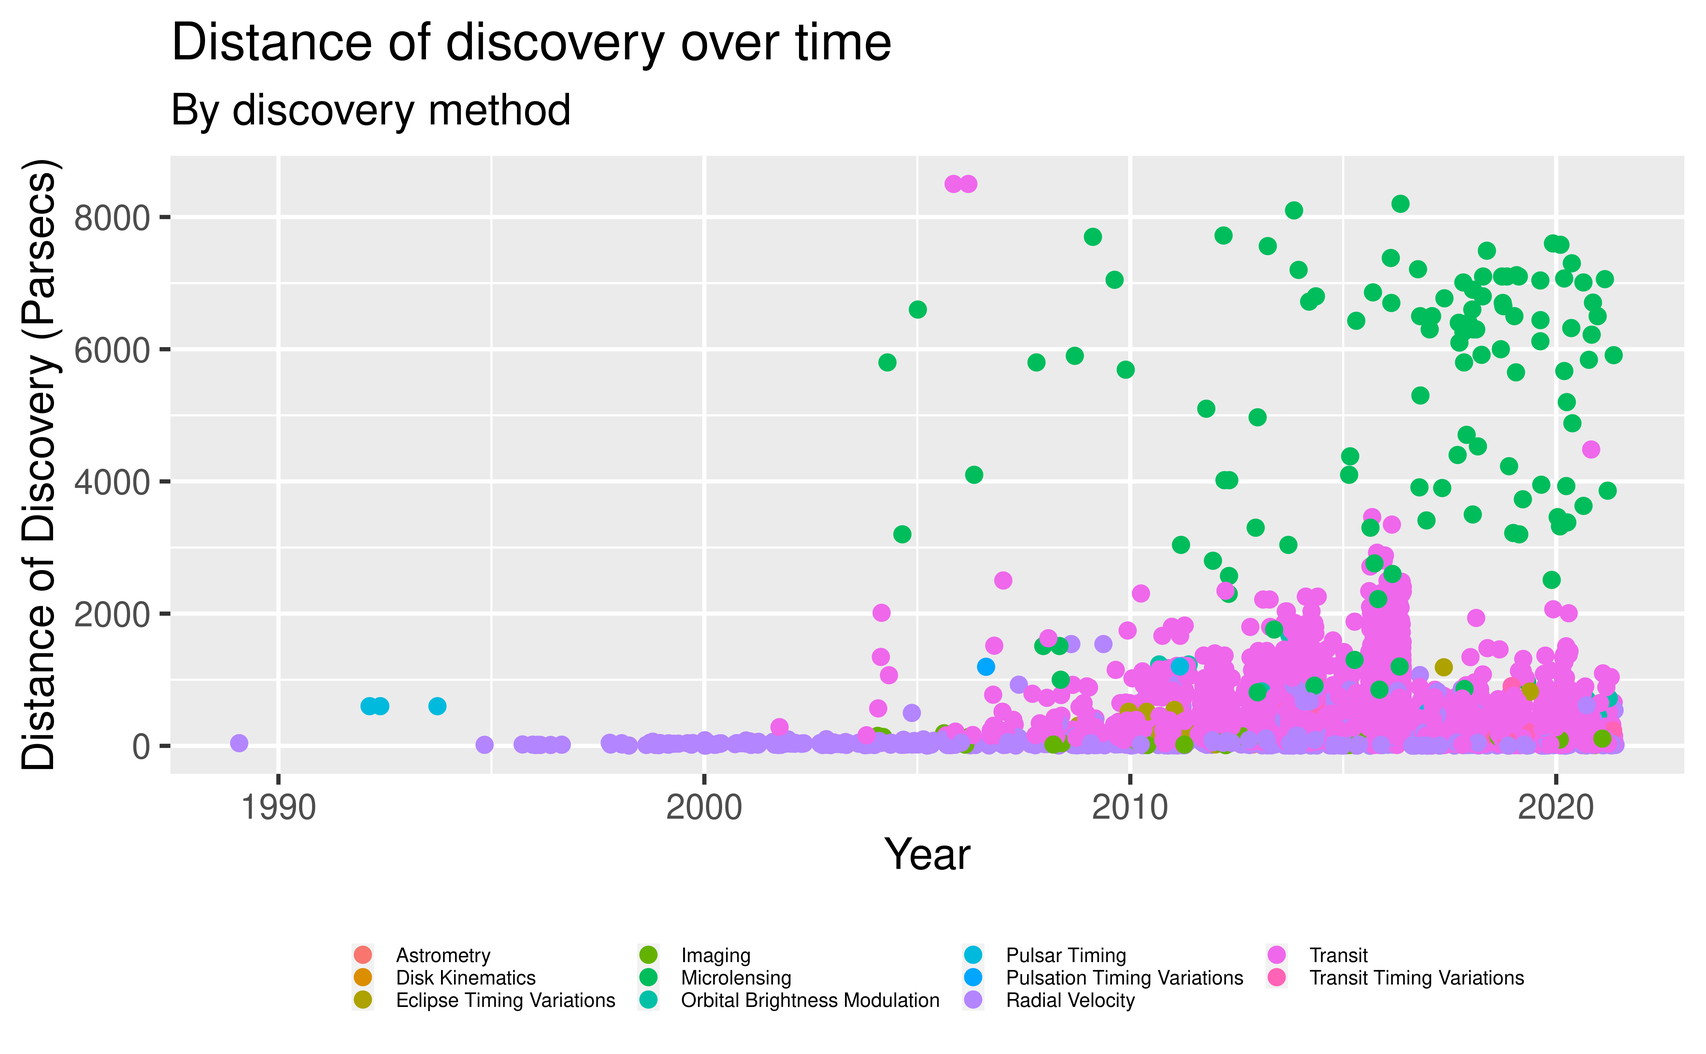
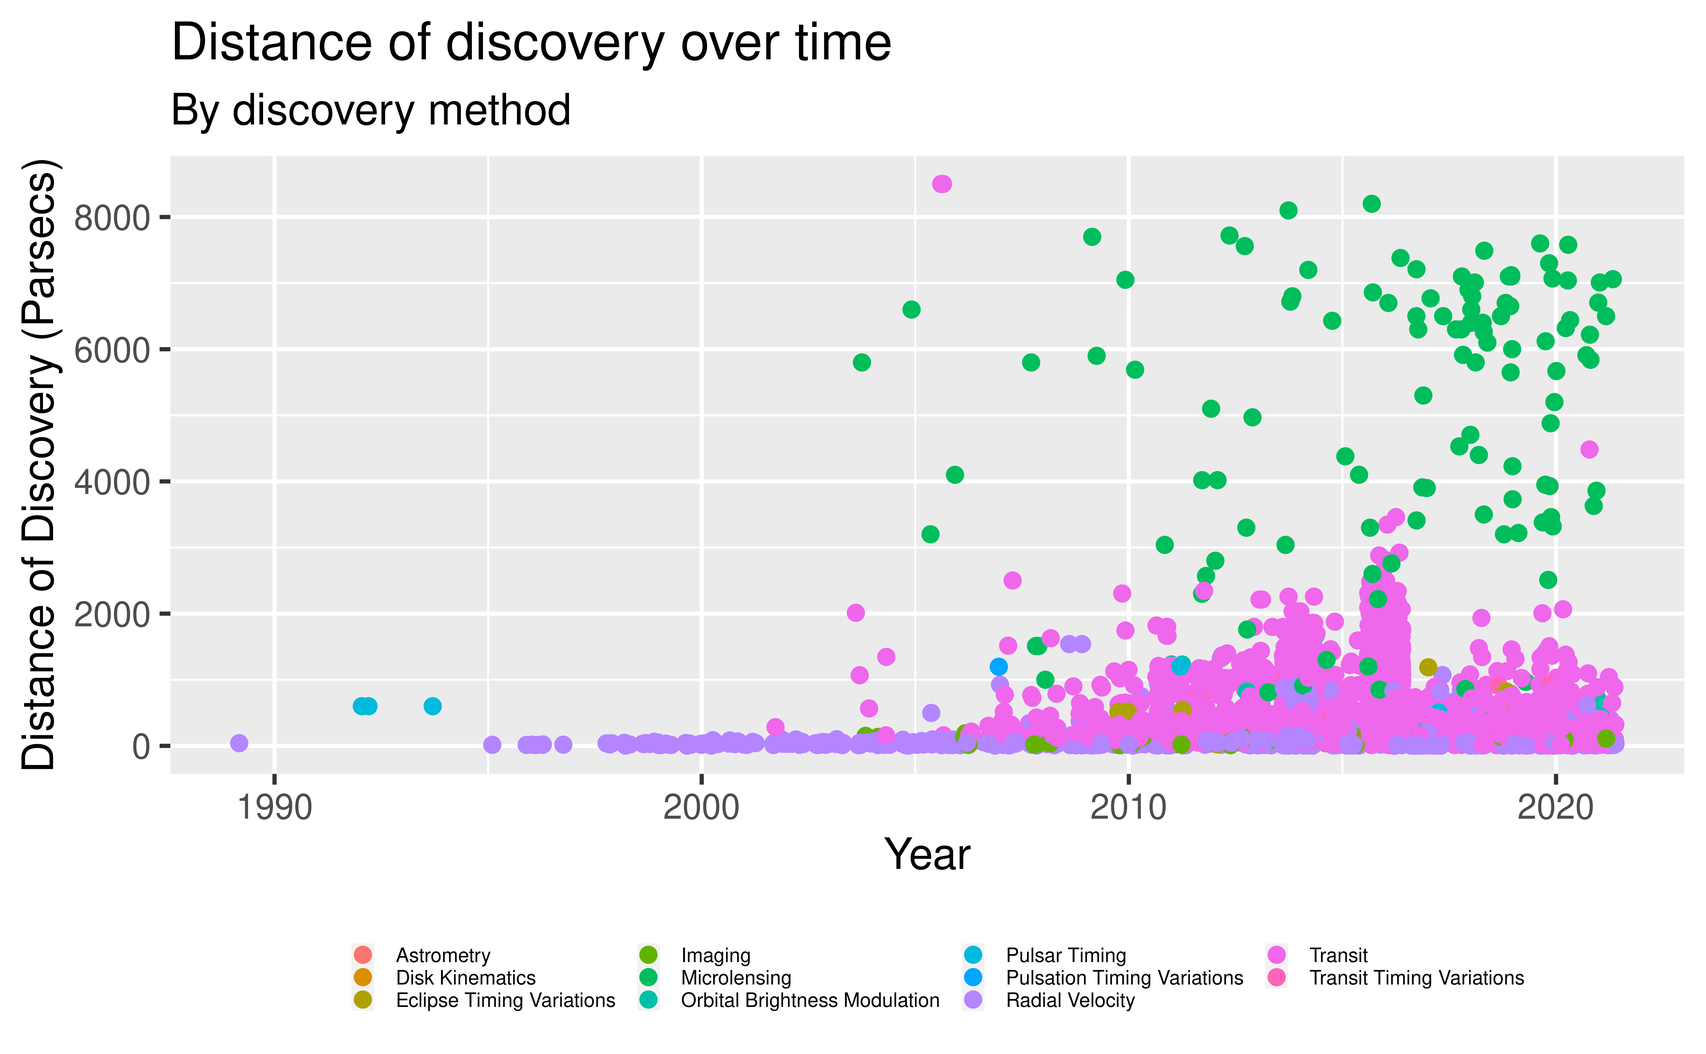
Add linear lines of best fit where applicable and add regression results discussion slide

diff --git a/presentation/presentation.html b/presentation/presentation.html
@@ -4,7 +4,7 @@
     <title>Exoplanet Exploration</title>
     <meta charset="utf-8" />
     <meta name="author" content="Annie Li, Matt Clayton, Ethan Wu" />
-    <meta name="date" content="2021-12-01" />
+    <meta name="date" content="2021-12-02" />
     <script src="libs/header-attrs-2.11/header-attrs.js"></script>
     <script src="libs/htmlwidgets-1.5.4/htmlwidgets.js"></script>
     <script src="libs/jquery-1.12.4/jquery.min.js"></script>
@@ -27,7 +27,7 @@ class: center, middle, inverse, title-slide
 ## Examining Driving Factors in Exoplanet Exploration
 ### Annie Li, Matt Clayton, Ethan Wu
 ### Bates College
-### 2021-12-01
+### 2021-12-02
 
 ---
 
@@ -212,7 +212,11 @@ class: inverse, center, middle
 &lt;img src="presentation_files/figure-html/disc-distance-over-time-plot-1.png" width="80%" style="display: block; margin: auto;" /&gt;
 
 ---
+### Exoplanet Discovery Over Time (Linear Fit)
 
+
+&lt;img src="presentation_files/figure-html/disc-distance-over-time-plot-linear-1.png" width="80%" style="display: block; margin: auto;" /&gt;
+---
 ### Linear Regression of Discovery Year on Mean Distance 
 
 
@@ -346,6 +350,15 @@ glance(distance_time_reg)$r.squared
 
 ---
 
+### Regression Results
+
+- The best model is one that includes both mean distance and discovery year, since a combined model has less omitted variable bias and a higher R-squared value
+
+- The results suggest that as the mean distance in a given year increases by 1 parsec, we can expect an increase in discoveries of approximately 0.452
+
+- The results also suggest that we can expect roughly 12 new discoveries each year on account of time alone (this likely represents technological advancements over time)
+
+---
 ### Observed Future Trends
 - We may discover exoplanets that are further away from us
 
@@ -357,7 +370,13 @@ glance(distance_time_reg)$r.squared
 
 &lt;img src="presentation_files/figure-html/gdp-vs-count-1.png" width="80%" style="display: block; margin: auto;" /&gt;
 ---
-### Linear regression on the relationship between GDP and number of discoveres exoplanets 
+
+### GDP and the Number of Exoplanets Discovered (Linear Fit)
+
+&lt;img src="presentation_files/figure-html/gdp-vs-count-linear-1.png" width="80%" style="display: block; margin: auto;" /&gt;
+
+---
+### Linear Regression on the Relationship Between GDP and Number of Discoveres Exoplanets 
 
 
 ```r
@@ -375,12 +394,17 @@ glance(gdp_disc)$r.squared
 
 ---
 
-### GDP and the number of exoplanets discovered (exluding USA)
+### GDP &amp; the Number of Exoplanets Discovered (Exluding USA)
 &lt;img src="presentation_files/figure-html/gdp-vs-count-without-USA-1.png" width="80%" style="display: block; margin: auto;" /&gt;
 
 ---
 
-### Linear regression on the relationship between GDP and number of discoveres exoplanets (excluding USA)
+### GDP &amp; the Number of Exoplanets Discovered (Exluding USA) (Linear Fit)
+&lt;img src="presentation_files/figure-html/gdp-vs-count-without-USA-linear-1.png" width="80%" style="display: block; margin: auto;" /&gt;
+
+---
+
+### Linear Regression on the Relationship Between GDP and Number of Discoveres (excluding USA)
 
 
 ```r
@@ -525,8 +549,8 @@ class: inverse, center, middle
 ### Exploring the Data: Interactive Leaflet Map (Discovery Locations)
 
 
-<div id="htmlwidget-c6bff6d8399f7a5870c2" style="width:80%;height:1112.4px;" class="leaflet html-widget"></div>
-<script type="application/json" data-for="htmlwidget-c6bff6d8399f7a5870c2">{"x":{"options":{"crs":{"crsClass":"L.CRS.EPSG3857","code":null,"proj4def":null,"projectedBounds":null,"options":{}}},"setView":[[-13.7,13.3],2,[]],"calls":[{"method":"addProviderTiles","args":["Stamen.Terrain",null,null,{"errorTileUrl":"","noWrap":false,"detectRetina":false}]},{"method":"addProviderTiles","args":["Stamen.TerrainLabels",null,null,{"errorTileUrl":"","noWrap":false,"detectRetina":false}]},{"method":"addMarkers","args":[[40.3945875544078,50.9820959522059,34.5765044619692,19.8271439533533,19.8229882424772,37.3416306323217,-24.6281129813625,-30.1686650740484,28.6082898086413,28.4461262820344,43.9302235794886,30.6794411910181,-31.2752242445919,36.1606806341249,28.5625667976929,28.4531500099104,28.4465003275046,-29.2601721254066,19.8259321343201,45.5929786183726,19.7021225407977,25.0338357741338,28.4472539108879,37.2205199024817,31.6745674152515,32.9015298111837,42.4773811497737,33.3574080927318,31.6751885667626,-29.0149270845236,31.9594838175142,-29.0143832437707,5.30236933538361,42.5049631873197,31.6757976446097,32.7805088421853,-23.0272157380583,31.7135851408837,31.7121801049321,31.7131520422979,-31.1624956530674,32.700964410149,-43.9696463271523,31.6652191982915,-29.0039337575817,48.2597768438794,18.3437570965364,-33.0123782971891,-31.7994026834335,19.8219021749655,35.1203687919416,19.4923202272193,28.180944937537,28.4541267085972,-26.0295477864595,28.7574864747294,-26.0293577013572,19.8223821182326,20.4228440294936,20.7089359999506],[117.574601300186,11.7150876824293,133.591189753093,-155.483608206823,-155.477957839542,-121.635120706512,-70.3962415152146,-70.7982780788706,-80.601545518869,-80.5616736491144,5.70370492723248,-104.031715237028,149.068329928664,128.979086913133,-80.582004014944,-17.5328711789958,-80.5575596426314,-70.7249209465933,-155.469040930199,63.3310988543086,-155.085217957287,102.785203078696,-80.5662223678574,-2.5519299148608,-110.952047905568,-105.525463887648,-71.463254293294,-116.864344699054,-110.958926892132,-70.6828575664828,-111.602183909274,-70.6933903947076,-52.834987656278,-71.5677184227593,-110.957560837525,-105.819283148153,-67.7523286803285,-110.605871238107,-110.606241235956,-110.601921483213,149.030366049292,-109.890890508875,170.472626692411,-110.59887705088,-70.4206523761753,11.6754364748435,-66.7549391424658,148.265280474268,-69.288309075259,-155.475960837721,-111.389586714068,-155.283211403095,-16.3024831458638,-17.5334020382846,27.9236072704919,-17.8950194263394,27.9240756403865,-155.470791316318,-156.157167210837,-156.24760903114],null,null,null,{"interactive":true,"draggable":false,"keyboard":true,"title":"","alt":"","zIndexOffset":0,"opacity":1,"riseOnHover":false,"riseOffset":250},["<strong>Xinglong Station<\/strong><br/>2 Discoveries<br/>Ownership: China<br/>Ownership Type: Public","<strong>Thueringer Landessternwarte Tautenburg<\/strong><br/>8 Discoveries<br/>Ownership: Germany<br/>Ownership Type: Public","<strong>Okayama Astrophysical Observatory<\/strong><br/>23 Discoveries<br/>Ownership: Japan<br/>Ownership Type: Public","<strong>W. M. Keck Observatory<\/strong><br/>180 Discoveries<br/>Ownership: United States<br/>Ownership Type: Public","<strong>Gemini Observatory<\/strong><br/>9 Discoveries<br/>Ownership: United States<br/>Ownership Type: Public","<strong>Lick Observatory<\/strong><br/>33 Discoveries<br/>Ownership: United States<br/>Ownership Type: Public","<strong>Paranal Observatory<\/strong><br/>36 Discoveries<br/>Ownership: Europe<br/>Ownership Type: Public","<strong>Cerro Tololo Inter-American Observatory<\/strong><br/>2 Discoveries<br/>Ownership: United States<br/>Ownership Type: Public","<strong>Hubble Space Telescope<\/strong><br/>6 Discoveries<br/>Ownership: United States<br/>Ownership Type: Public","<strong>Kepler<\/strong><br/>2402 Discoveries<br/>Ownership: United States<br/>Ownership Type: Public","<strong>Haute-Provence Observatory<\/strong><br/>64 Discoveries<br/>Ownership: France<br/>Ownership Type: Public","<strong>McDonald Observatory<\/strong><br/>29 Discoveries<br/>Ownership: United States<br/>Ownership Type: Private","<strong>Anglo-Australian Telescope<\/strong><br/>37 Discoveries<br/>Ownership: Australia<br/>Ownership Type: Public","<strong>Bohyunsan Optical Astronomical Observatory<\/strong><br/>19 Discoveries<br/>Ownership: South Korea<br/>Ownership Type: Public","<strong>Transiting Exoplanet Survey Satellite (TESS)<\/strong><br/>159 Discoveries<br/>Ownership: United States<br/>Ownership Type: Public","<strong>Roque de los Muchachos Observatory<\/strong><br/>22 Discoveries<br/>Ownership: Spain<br/>Ownership Type: Public","<strong>K2<\/strong><br/>467 Discoveries<br/>Ownership: United States<br/>Ownership Type: Public","<strong>La Silla Observatory<\/strong><br/>247 Discoveries<br/>Ownership: Europe<br/>Ownership Type: Public","<strong>NASA Infrared Telescope Facility (IRTF)<\/strong><br/>1 Discoveries<br/>Ownership: United States<br/>Ownership Type: Public","<strong>CoRoT<\/strong><br/>33 Discoveries<br/>Ownership: Europe<br/>Ownership Type: Public","<strong>Subaru Telescope<\/strong><br/>8 Discoveries<br/>Ownership: Japan<br/>Ownership Type: Public","<strong>Yunnan Astronomical Observatory<\/strong><br/>3 Discoveries<br/>Ownership: China<br/>Ownership Type: Public","<strong>Spitzer Space Telescope<\/strong><br/>3 Discoveries<br/>Ownership: United States<br/>Ownership Type: Public","<strong>Calar Alto Observatory<\/strong><br/>14 Discoveries<br/>Ownership: Spain<br/>Ownership Type: Public","<strong>MEarth Project<\/strong><br/>2 Discoveries<br/>Ownership: United States<br/>Ownership Type: Public","<strong>Qatar<\/strong><br/>11 Discoveries<br/>Ownership: Qatar<br/>Ownership Type: Public","<strong>Acton Sky Portal Observatory<\/strong><br/>2 Discoveries<br/>Ownership: United States<br/>Ownership Type: Private","<strong>Palomar Observatory<\/strong><br/>2 Discoveries<br/>Ownership: United States<br/>Ownership Type: Private","<strong>HATNet<\/strong><br/>67 Discoveries<br/>Ownership: United States<br/>Ownership Type: Public","<strong>HATSouth<\/strong><br/>69 Discoveries<br/>Ownership: United States<br/>Ownership Type: Public","<strong>Kitt Peak National Observatory<\/strong><br/>1 Discoveries<br/>Ownership: United States<br/>Ownership Type: Public","<strong>Las Campanas Observatory<\/strong><br/>29 Discoveries<br/>Ownership: United States<br/>Ownership Type: Public","<strong>CHaracterising ExOPlanets Satellite (CHEOPS)<\/strong><br/>1 Discoveries<br/>Ownership: Europe<br/>Ownership Type: Public","<strong>Oak Ridge Observatory<\/strong><br/>1 Discoveries<br/>Ownership: United States<br/>Ownership Type: Private","<strong>Fred Lawrence Whipple Observatory<\/strong><br/>6 Discoveries<br/>Ownership: United States<br/>Ownership Type: Private","<strong>Apache Point Observatory<\/strong><br/>1 Discoveries<br/>Ownership: United States<br/>Ownership Type: Public","<strong>Atacama Large Millimeter Array (ALMA)<\/strong><br/>1 Discoveries<br/>Ownership: Europe<br/>Ownership Type: Public","<strong>KELT<\/strong><br/>10 Discoveries<br/>Ownership: United States<br/>Ownership Type: Private","<strong>KELT-South<\/strong><br/>4 Discoveries<br/>Ownership: United States<br/>Ownership Type: Private","<strong>KELT-North<\/strong><br/>7 Discoveries<br/>Ownership: United States<br/>Ownership Type: Private","<strong>KMTNet<\/strong><br/>24 Discoveries<br/>Ownership: South Korea<br/>Ownership Type: Private","<strong>Large Binocular Telescope Observatory<\/strong><br/>2 Discoveries<br/>Ownership: United States<br/>Ownership Type: Private","<strong>MOA<\/strong><br/>25 Discoveries<br/>Ownership: New Zealand<br/>Ownership Type: Public","<strong>Winer Observatory<\/strong><br/>1 Discoveries<br/>Ownership: United States<br/>Ownership Type: Private","<strong>OGLE<\/strong><br/>72 Discoveries<br/>Ownership: Poland<br/>Ownership Type: Public","<strong>European Southern Observatory<\/strong><br/>2 Discoveries<br/>Ownership: Europe<br/>Ownership Type: Public","<strong>Arecibo Observatory<\/strong><br/>3 Discoveries<br/>Ownership: United States<br/>Ownership Type: Public","<strong>Parkes Observatory<\/strong><br/>2 Discoveries<br/>Ownership: Australia<br/>Ownership Type: Public","<strong>Leoncito Astronomical Complex<\/strong><br/>1 Discoveries<br/>Ownership: United States<br/>Ownership Type: Public","<strong>Infrared Survey Facility<\/strong><br/>1 Discoveries<br/>Ownership: United Kingdom<br/>Ownership Type: Public","<strong>TrES<\/strong><br/>5 Discoveries<br/>Ownership: United States<br/>Ownership Type: Public","<strong>Mauna Kea Observatory<\/strong><br/>1 Discoveries<br/>Ownership: United States<br/>Ownership Type: Public","<strong>Teide Observatory<\/strong><br/>1 Discoveries<br/>Ownership: Spain<br/>Ownership Type: Public","<strong>SuperWASP<\/strong><br/>113 Discoveries<br/>Ownership: United Kingdom<br/>Ownership Type: Public","<strong>SuperWASP-South<\/strong><br/>32 Discoveries<br/>Ownership: United Kingdom<br/>Ownership Type: Public","<strong>SuperWASP-North<\/strong><br/>5 Discoveries<br/>Ownership: United Kingdom<br/>Ownership Type: Public","<strong>WASP-South<\/strong><br/>10 Discoveries<br/>Ownership: United Kingdom<br/>Ownership Type: Public","<strong>United Kingdom Infrared Telescope<\/strong><br/>2 Discoveries<br/>Ownership: United Kingdom<br/>Ownership Type: Public","<strong>Haleakala Observatory<\/strong><br/>2 Discoveries<br/>Ownership: United States<br/>Ownership Type: Public","<strong>XO<\/strong><br/>7 Discoveries<br/>Ownership: United States<br/>Ownership Type: Public"],null,null,null,null,{"interactive":false,"permanent":false,"direction":"auto","opacity":1,"offset":[0,0],"textsize":"10px","textOnly":false,"className":"","sticky":true},null]}],"limits":{"lat":[-43.9696463271523,50.9820959522059],"lng":[-156.24760903114,170.472626692411]}},"evals":[],"jsHooks":[]}</script>
+<div id="htmlwidget-eb93491a09d635e2c712" style="width:80%;height:1112.4px;" class="leaflet html-widget"></div>
+<script type="application/json" data-for="htmlwidget-eb93491a09d635e2c712">{"x":{"options":{"crs":{"crsClass":"L.CRS.EPSG3857","code":null,"proj4def":null,"projectedBounds":null,"options":{}}},"setView":[[-13.7,13.3],2,[]],"calls":[{"method":"addProviderTiles","args":["Stamen.Terrain",null,null,{"errorTileUrl":"","noWrap":false,"detectRetina":false}]},{"method":"addProviderTiles","args":["Stamen.TerrainLabels",null,null,{"errorTileUrl":"","noWrap":false,"detectRetina":false}]},{"method":"addMarkers","args":[[40.3950115482766,50.981839656157,34.576538843925,19.8261012301116,19.8238960706354,37.3413223105318,-24.6266131055279,-30.1700199015954,28.6091348138103,28.4468431274378,43.9305663166129,30.6791249676961,-31.2753702518685,36.161397115574,28.5626740314948,28.4518072919592,28.4468025347366,-29.2620878113127,19.8265953416475,45.5930689172283,19.7006489989684,25.0332789593585,28.4467796175926,37.2202287413198,31.6741882568259,32.9017997420638,42.4766645388684,33.3570251530765,31.6752314418848,-29.0145565387843,31.9595355062189,-29.013870608136,5.30215749193166,42.50566269327,31.6750786079001,32.7800404325455,-23.027764048496,31.7133030671648,31.7122735945022,31.7136583762814,-31.1611426887597,32.7008052618806,-43.9707663890551,31.6668887658485,-29.0039360327072,48.2593526396169,18.3450166124626,-33.0109848801311,-31.7979168928041,19.8230335805756,35.1210022287001,19.4917199058449,28.1799954336928,28.4527102975909,-26.0309074900576,28.7555671899912,-26.0293431845147,19.8233696386768,20.4224754355052,20.7080632714282],[117.569111407273,11.7110522860397,133.588995385678,-155.469194509322,-155.472276008907,-121.636965568713,-70.3964438284245,-70.7986056851043,-80.613389298268,-80.5662220111981,5.7034836323088,-104.022336972906,149.070027420887,128.97250211497,-80.5693519327429,-17.5357562555484,-80.5617124863135,-70.737548751939,-155.465933579469,63.3237867639303,-155.082733666571,102.778941290816,-80.5649288112277,-2.55408377047889,-110.957297203867,-105.537898701247,-71.4499119984799,-116.875290705866,-110.951183570102,-70.6986551257804,-111.593727924593,-70.6892576156579,-52.8369070167368,-71.5659828803428,-110.954947906942,-105.821658497835,-67.757514853355,-110.599565187418,-110.610089880726,-110.605528400284,149.034259183327,-109.888068195855,170.475993026277,-110.59576567199,-70.4163542323321,11.6764335106589,-66.7489154549504,148.26711669807,-69.2903378559178,-155.47340493675,-111.390355637525,-155.280355137784,-16.3014104593256,-17.531980394179,27.9256900081482,-17.8909900254133,27.9334273039807,-155.469939197276,-156.159666706065,-156.250218165722],null,null,null,{"interactive":true,"draggable":false,"keyboard":true,"title":"","alt":"","zIndexOffset":0,"opacity":1,"riseOnHover":false,"riseOffset":250},["<strong>Xinglong Station<\/strong><br/>2 Discoveries<br/>Ownership: China<br/>Ownership Type: Public","<strong>Thueringer Landessternwarte Tautenburg<\/strong><br/>8 Discoveries<br/>Ownership: Germany<br/>Ownership Type: Public","<strong>Okayama Astrophysical Observatory<\/strong><br/>23 Discoveries<br/>Ownership: Japan<br/>Ownership Type: Public","<strong>W. M. Keck Observatory<\/strong><br/>180 Discoveries<br/>Ownership: United States<br/>Ownership Type: Public","<strong>Gemini Observatory<\/strong><br/>9 Discoveries<br/>Ownership: United States<br/>Ownership Type: Public","<strong>Lick Observatory<\/strong><br/>33 Discoveries<br/>Ownership: United States<br/>Ownership Type: Public","<strong>Paranal Observatory<\/strong><br/>36 Discoveries<br/>Ownership: Europe<br/>Ownership Type: Public","<strong>Cerro Tololo Inter-American Observatory<\/strong><br/>2 Discoveries<br/>Ownership: United States<br/>Ownership Type: Public","<strong>Hubble Space Telescope<\/strong><br/>6 Discoveries<br/>Ownership: United States<br/>Ownership Type: Public","<strong>Kepler<\/strong><br/>2402 Discoveries<br/>Ownership: United States<br/>Ownership Type: Public","<strong>Haute-Provence Observatory<\/strong><br/>64 Discoveries<br/>Ownership: France<br/>Ownership Type: Public","<strong>McDonald Observatory<\/strong><br/>29 Discoveries<br/>Ownership: United States<br/>Ownership Type: Private","<strong>Anglo-Australian Telescope<\/strong><br/>37 Discoveries<br/>Ownership: Australia<br/>Ownership Type: Public","<strong>Bohyunsan Optical Astronomical Observatory<\/strong><br/>19 Discoveries<br/>Ownership: South Korea<br/>Ownership Type: Public","<strong>Transiting Exoplanet Survey Satellite (TESS)<\/strong><br/>159 Discoveries<br/>Ownership: United States<br/>Ownership Type: Public","<strong>Roque de los Muchachos Observatory<\/strong><br/>22 Discoveries<br/>Ownership: Spain<br/>Ownership Type: Public","<strong>K2<\/strong><br/>467 Discoveries<br/>Ownership: United States<br/>Ownership Type: Public","<strong>La Silla Observatory<\/strong><br/>247 Discoveries<br/>Ownership: Europe<br/>Ownership Type: Public","<strong>NASA Infrared Telescope Facility (IRTF)<\/strong><br/>1 Discoveries<br/>Ownership: United States<br/>Ownership Type: Public","<strong>CoRoT<\/strong><br/>33 Discoveries<br/>Ownership: Europe<br/>Ownership Type: Public","<strong>Subaru Telescope<\/strong><br/>8 Discoveries<br/>Ownership: Japan<br/>Ownership Type: Public","<strong>Yunnan Astronomical Observatory<\/strong><br/>3 Discoveries<br/>Ownership: China<br/>Ownership Type: Public","<strong>Spitzer Space Telescope<\/strong><br/>3 Discoveries<br/>Ownership: United States<br/>Ownership Type: Public","<strong>Calar Alto Observatory<\/strong><br/>14 Discoveries<br/>Ownership: Spain<br/>Ownership Type: Public","<strong>MEarth Project<\/strong><br/>2 Discoveries<br/>Ownership: United States<br/>Ownership Type: Public","<strong>Qatar<\/strong><br/>11 Discoveries<br/>Ownership: Qatar<br/>Ownership Type: Public","<strong>Acton Sky Portal Observatory<\/strong><br/>2 Discoveries<br/>Ownership: United States<br/>Ownership Type: Private","<strong>Palomar Observatory<\/strong><br/>2 Discoveries<br/>Ownership: United States<br/>Ownership Type: Private","<strong>HATNet<\/strong><br/>67 Discoveries<br/>Ownership: United States<br/>Ownership Type: Public","<strong>HATSouth<\/strong><br/>69 Discoveries<br/>Ownership: United States<br/>Ownership Type: Public","<strong>Kitt Peak National Observatory<\/strong><br/>1 Discoveries<br/>Ownership: United States<br/>Ownership Type: Public","<strong>Las Campanas Observatory<\/strong><br/>29 Discoveries<br/>Ownership: United States<br/>Ownership Type: Public","<strong>CHaracterising ExOPlanets Satellite (CHEOPS)<\/strong><br/>1 Discoveries<br/>Ownership: Europe<br/>Ownership Type: Public","<strong>Oak Ridge Observatory<\/strong><br/>1 Discoveries<br/>Ownership: United States<br/>Ownership Type: Private","<strong>Fred Lawrence Whipple Observatory<\/strong><br/>6 Discoveries<br/>Ownership: United States<br/>Ownership Type: Private","<strong>Apache Point Observatory<\/strong><br/>1 Discoveries<br/>Ownership: United States<br/>Ownership Type: Public","<strong>Atacama Large Millimeter Array (ALMA)<\/strong><br/>1 Discoveries<br/>Ownership: Europe<br/>Ownership Type: Public","<strong>KELT<\/strong><br/>10 Discoveries<br/>Ownership: United States<br/>Ownership Type: Private","<strong>KELT-South<\/strong><br/>4 Discoveries<br/>Ownership: United States<br/>Ownership Type: Private","<strong>KELT-North<\/strong><br/>7 Discoveries<br/>Ownership: United States<br/>Ownership Type: Private","<strong>KMTNet<\/strong><br/>24 Discoveries<br/>Ownership: South Korea<br/>Ownership Type: Private","<strong>Large Binocular Telescope Observatory<\/strong><br/>2 Discoveries<br/>Ownership: United States<br/>Ownership Type: Private","<strong>MOA<\/strong><br/>25 Discoveries<br/>Ownership: New Zealand<br/>Ownership Type: Public","<strong>Winer Observatory<\/strong><br/>1 Discoveries<br/>Ownership: United States<br/>Ownership Type: Private","<strong>OGLE<\/strong><br/>72 Discoveries<br/>Ownership: Poland<br/>Ownership Type: Public","<strong>European Southern Observatory<\/strong><br/>2 Discoveries<br/>Ownership: Europe<br/>Ownership Type: Public","<strong>Arecibo Observatory<\/strong><br/>3 Discoveries<br/>Ownership: United States<br/>Ownership Type: Public","<strong>Parkes Observatory<\/strong><br/>2 Discoveries<br/>Ownership: Australia<br/>Ownership Type: Public","<strong>Leoncito Astronomical Complex<\/strong><br/>1 Discoveries<br/>Ownership: United States<br/>Ownership Type: Public","<strong>Infrared Survey Facility<\/strong><br/>1 Discoveries<br/>Ownership: United Kingdom<br/>Ownership Type: Public","<strong>TrES<\/strong><br/>5 Discoveries<br/>Ownership: United States<br/>Ownership Type: Public","<strong>Mauna Kea Observatory<\/strong><br/>1 Discoveries<br/>Ownership: United States<br/>Ownership Type: Public","<strong>Teide Observatory<\/strong><br/>1 Discoveries<br/>Ownership: Spain<br/>Ownership Type: Public","<strong>SuperWASP<\/strong><br/>113 Discoveries<br/>Ownership: United Kingdom<br/>Ownership Type: Public","<strong>SuperWASP-South<\/strong><br/>32 Discoveries<br/>Ownership: United Kingdom<br/>Ownership Type: Public","<strong>SuperWASP-North<\/strong><br/>5 Discoveries<br/>Ownership: United Kingdom<br/>Ownership Type: Public","<strong>WASP-South<\/strong><br/>10 Discoveries<br/>Ownership: United Kingdom<br/>Ownership Type: Public","<strong>United Kingdom Infrared Telescope<\/strong><br/>2 Discoveries<br/>Ownership: United Kingdom<br/>Ownership Type: Public","<strong>Haleakala Observatory<\/strong><br/>2 Discoveries<br/>Ownership: United States<br/>Ownership Type: Public","<strong>XO<\/strong><br/>7 Discoveries<br/>Ownership: United States<br/>Ownership Type: Public"],null,null,null,null,{"interactive":false,"permanent":false,"direction":"auto","opacity":1,"offset":[0,0],"textsize":"10px","textOnly":false,"className":"","sticky":true},null]}],"limits":{"lat":[-43.9707663890551,50.981839656157],"lng":[-156.250218165722,170.475993026277]}},"evals":[],"jsHooks":[]}</script>
 
     </textarea>
 <style data-target="print-only">@media screen {.remark-slide-container{display:block;}.remark-slide-scaler{box-shadow:none;}}</style>
